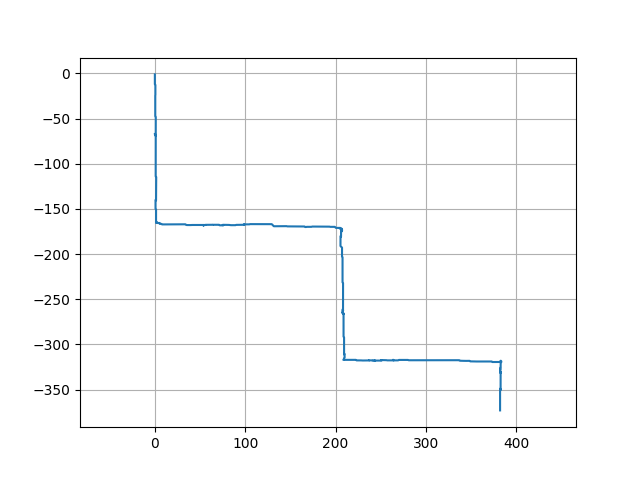
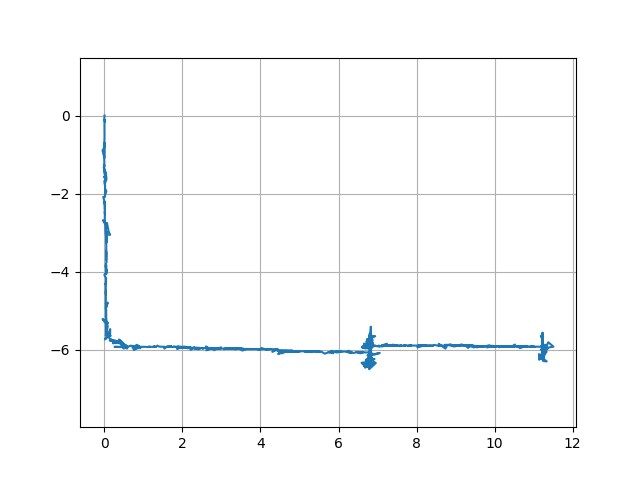
estimate pose using several frames

diff --git a/slam.cpp b/slam.cpp
@@ -23,7 +23,7 @@ SLAM::SLAM() {
 
     // detector = cv::FastFeatureDetector::create();
     extractor = cv::ORB::create(
-            500,
+            100,
             1.2,
             3,
             31,
@@ -41,71 +41,66 @@ SLAM::SLAM() {
     estRotation = Eigen::Quaterniond(1, 0, 0, 0);
     estTranslation = Eigen::Vector3d(0, 0, 0);
 
-    framesHistory.emplace_back(std::move(FrameSnapshot()));
+//    framesHistory.emplace_back(std::move(FrameSnapshot()));
+
+    const int averageBetweenFrames = 1;
+    for (int i = 0; i < averageBetweenFrames; i++) {
+        poseHistory.emplace_back(Pose(
+                Eigen::Quaterniond(1, 0, 0, 0),
+                Eigen::Vector3d(0, 0, 0),
+                FrameSnapshot()
+        ));
+    }
 }
 
 SLAM::~SLAM() = default;
 
 // TODO: fill map with projections
 void SLAM::feed(const cv::Mat &frame) {
-    // TODO use more than 1
-    auto[snapshot, cutoff] = makeSnapshot(frame, framesHistory.back());
-    if (cutoff) {
-        framesHistory.emplace_back(snapshot);
-        framesHistory.pop_front();
-        return;
+    Eigen::Quaterniond averageRotation(0, 0, 0, 0);
+    Eigen::Vector3d averageTranslation(0, 0, 0);
+    FrameSnapshot snapshot;
+    for (auto &pose:poseHistory) {
+        auto poseChange = estimatePoseChange(pose.snapshot, frame);
+        auto rotation = poseChange.rotation * pose.rotation;
+        // TODO: premultiply change by rotation
+        auto translation = poseChange.translation + pose.translation;
+
+        averageTranslation += translation;
+        averageRotation = Eigen::Quaterniond(
+                averageRotation.w() + rotation.w(),
+                averageRotation.x() + rotation.x(),
+                averageRotation.y() + rotation.y(),
+                averageRotation.z() + rotation.z()
+        );
+
+        snapshot = poseChange.snapshot; // use last snapshot
     }
-
-
-    cv::Mat essential, rotation, translation, mask;
-    essential = findEssentialMat(snapshot.points, snapshot.rPoints, cameraMatrix, cv::RANSAC, 0.999, 0.15, mask);
-    recoverPose(essential, snapshot.points, snapshot.rPoints, cameraMatrix, rotation, translation, 99, mask);
-
-    // 1
-//    estTranslation += estRotation.toRotationMatrix() * Eigen::Vector3d(
-    // 2
-    estTranslation += Eigen::Vector3d(
-            translation.at<double>(0, 0),
-            translation.at<double>(1, 0),
-            translation.at<double>(2, 0)
+    averageTranslation /= poseHistory.size();
+    averageRotation = Eigen::Quaterniond(
+            averageRotation.w() / poseHistory.size(),
+            averageRotation.x() / poseHistory.size(),
+            averageRotation.y() / poseHistory.size(),
+            averageRotation.z() / poseHistory.size()
     );
 
+    // do we actually need this?
+    // auto translationChange = averageTranslation - poseHistory.back().translation;
+    // auto rotationChange = averageRotation * poseHistory.back().rotation.inverse();
 
-    Eigen::Matrix3d frameRotation;
-    frameRotation << rotation.at<double>(0, 0),
-            rotation.at<double>(0, 1),
-            rotation.at<double>(0, 2),
-            rotation.at<double>(1, 0),
-            rotation.at<double>(1, 1),
-            rotation.at<double>(1, 2),
-            rotation.at<double>(2, 0),
-            rotation.at<double>(2, 1),
-            rotation.at<double>(2, 2);
+    auto pose = Pose(averageRotation, averageTranslation, snapshot);
+    poseHistory.emplace_back(pose);
+    poseHistory.pop_front();
 
-
-    auto rotationDerivative = Eigen::Quaterniond(frameRotation);
-    if (abs(rotationDerivative.w()) < 0.0015)
-        rotationDerivative = Eigen::Quaterniond(1, 0, 0, 0);
-//    std::cout << "q=" <<
-//              estRotation.w() << ", " <<
-//              estRotation.x() << ", " <<
-//              estRotation.y() << ", " <<
-//              estRotation.z() << std::endl;
-    estRotation = rotationDerivative * estRotation;
-    estRotation.normalize();
-
-    path.emplace_back(estTranslation);
-
-//    std::cout << "translation: " << estTranslation << std::endl;
-//    std::cout << "rotation: " << estRotation << std::endl;
+    path.emplace_back(pose.translation);
 
     cv::Mat matchesImage;
     cv::drawMatches(
             frame,
-            snapshot.keypoints,
+            pose.snapshot.keypoints,
             frame,
-            snapshot.rKeypoints,
-            snapshot.matches,
+            pose.snapshot.rKeypoints,
+            pose.snapshot.matches,
             matchesImage,
             cv::Scalar::all(-1),
             cv::Scalar::all(-1),
@@ -113,9 +108,6 @@ void SLAM::feed(const cv::Mat &frame) {
             cv::DrawMatchesFlags::NOT_DRAW_SINGLE_POINTS
     );
     imshow("matches", matchesImage);
-
-    framesHistory.emplace_back(snapshot);
-    framesHistory.pop_front();
 }
 
 void SLAM::savePathAsImage(const std::string &name, bool volumetric) {
@@ -181,17 +173,17 @@ std::tuple<SLAM::FrameSnapshot, bool> SLAM::makeSnapshot(const cv::Mat &_frame, 
 
     std::vector<cv::DMatch> filteredMatches;
     double matchDistance = minDistance < 10 ? 90 : 9 * minDistance;
+    auto maxDelta = (frame.cols + frame.rows) / 300;
     for (int i = 0; i < features.rows; i++) {
         if (matches[i].distance <= matchDistance) {
             auto delta = keypoints[matches[i].queryIdx].pt - relativity.keypoints[matches[i].trainIdx].pt;
-            auto maxDelta = (frame.cols + frame.rows) / 300;
             if (abs(delta.x) + abs(delta.y) < maxDelta) {
                 filteredMatches.emplace_back(matches[i]);
             }
         }
     }
 
-    if (filteredMatches.size() < 20) {
+    if (filteredMatches.size() < 10) {
         auto msg = ("not enough matches: " +
                     std::to_string(matches.size()) +
                     " -> " +
@@ -220,4 +212,48 @@ std::tuple<SLAM::FrameSnapshot, bool> SLAM::makeSnapshot(const cv::Mat &_frame, 
                     filteredMatches,
                     features
             ), false};
+}
+
+SLAM::Pose SLAM::estimatePoseChange(const SLAM::FrameSnapshot &from, const cv::Mat &frame) {
+    auto[snapshot, cutoff] = makeSnapshot(frame, from);
+    if (cutoff) {
+        return Pose(
+                Eigen::Quaterniond(1, 0, 0, 0),
+                Eigen::Vector3d(0, 0, 0),
+                snapshot
+        );
+    }
+
+    cv::Mat essential, rotation, translation, mask;
+    essential = findEssentialMat(snapshot.points, snapshot.rPoints, cameraMatrix, cv::RANSAC, 0.999, 0.15, mask);
+    recoverPose(essential, snapshot.points, snapshot.rPoints, cameraMatrix, rotation, translation, 99, mask);
+
+    // 1
+//    estTranslation += estRotation.toRotationMatrix() * Eigen::Vector3d(
+    // 2
+    auto translationDifference = Eigen::Vector3d(
+            translation.at<double>(0, 0),
+            translation.at<double>(1, 0),
+            translation.at<double>(2, 0)
+    );
+
+
+    Eigen::Matrix3d frameRotation;
+    frameRotation << rotation.at<double>(0, 0),
+            rotation.at<double>(0, 1),
+            rotation.at<double>(0, 2),
+            rotation.at<double>(1, 0),
+            rotation.at<double>(1, 1),
+            rotation.at<double>(1, 2),
+            rotation.at<double>(2, 0),
+            rotation.at<double>(2, 1),
+            rotation.at<double>(2, 2);
+
+
+    auto rotationDerivative = Eigen::Quaterniond(frameRotation);
+    if (abs(rotationDerivative.w()) < 0.0015)
+        rotationDerivative = Eigen::Quaterniond(1, 0, 0, 0);
+
+
+    return SLAM::Pose(rotationDerivative, translationDifference, snapshot);
 }

diff --git a/slam.h b/slam.h
@@ -67,17 +67,23 @@ public:
         }
     };
 
-    std::tuple<FrameSnapshot, bool> makeSnapshot(const cv::Mat &_frame, const FrameSnapshot &relativity);
+    std::tuple<FrameSnapshot, bool> makeSnapshot(const cv::Mat &frame, const FrameSnapshot &relativity);
 
-    struct PoseSnapshot {
-        PoseSnapshot(Eigen::Quaterniond rotation,
-                     Eigen::Vector3d translation)
-                : rotation(std::move(rotation)),
-                  translation(std::move(translation)) {};
-        // relative to one of previous frames
+    struct Pose {
+        // relative to one of previous frames when used as change, absolute values otherwise
         Eigen::Quaterniond rotation;
         Eigen::Vector3d translation;
+        FrameSnapshot snapshot;
+
+        Pose(Eigen::Quaterniond rotation,
+             Eigen::Vector3d translation,
+             const FrameSnapshot& snapshot)
+                : rotation(std::move(rotation)),
+                  translation(std::move(translation)),
+                  snapshot(snapshot) {};
     };
+
+    Pose estimatePoseChange(const FrameSnapshot &from, const cv::Mat &frame);
 
 private:
     cv::Ptr<cv::FeatureDetector> detector;
@@ -92,7 +98,8 @@ private:
 //    cv::Mat previousFeatures;
     cv::BFMatcher matcher;
 
-    std::deque<FrameSnapshot> framesHistory;
+//    std::deque<FrameSnapshot> framesHistory;
+    std::deque<Pose> poseHistory;
 
     Eigen::Quaterniond estRotation;
     Eigen::Vector3d estTranslation;
